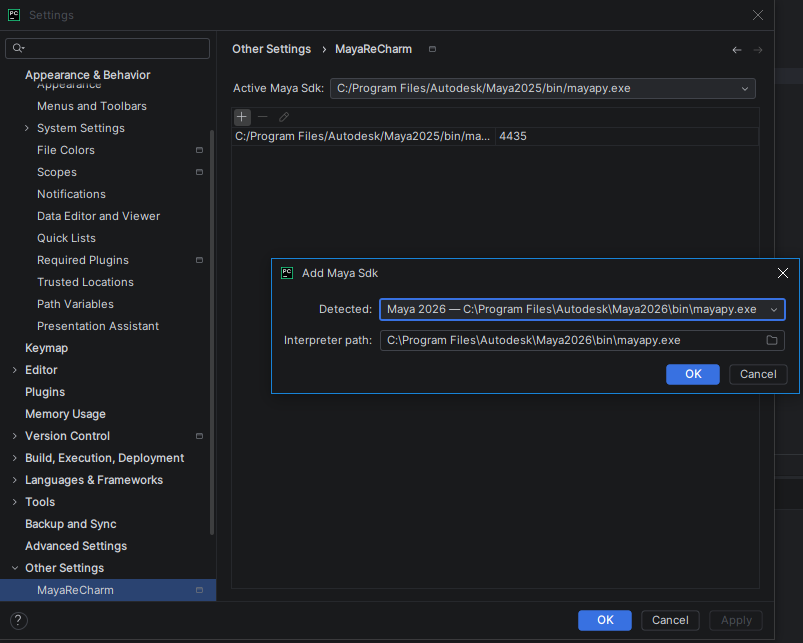
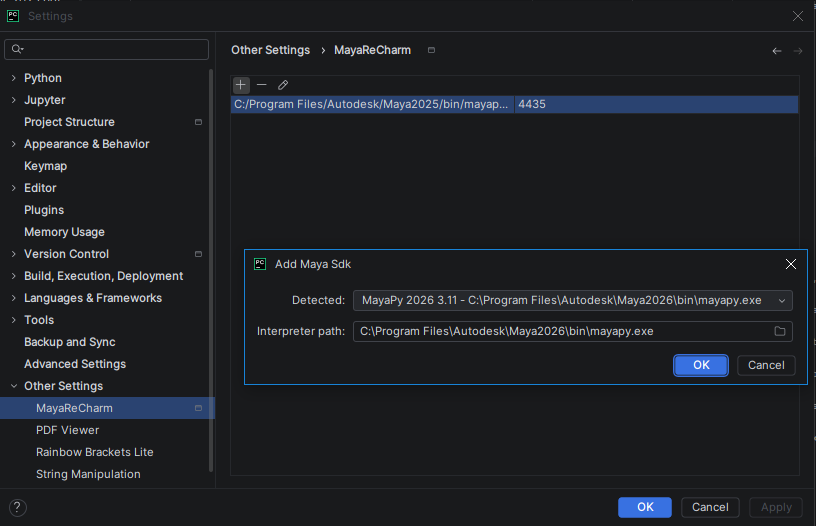
📝 Update README: clarify usage of mayapy interpreters and add logging section

diff --git a/README.md b/README.md
@@ -23,7 +23,6 @@ future updates and maintenance.
 MayaReCharm requires some minimal setup. The settings panel is located at `Settings | Other Settings | MayaReCharm`.
 
 - **Port Numbers:** Define the port numbers MayaReCharm will use to communicate with your Maya installations.
-- **Active Maya SDK:** Set the Maya installation used for the `Execute Document` and `Execute Selection` actions.
 - **Maya Interpreters:** Add `mayapy` interpreters to make them available for code execution. Note that adding `mayapy`
   via the standard `Settings | Python Interpreter` is not supported.
 
@@ -36,10 +35,11 @@ code in Maya or add it to your `userSetup.py` file.
 
 ## Usage
 
-Once configured, mayapy interpreters are available as Python Interpreter. You can select them through the bottom-right
-interpreter selector in the IDE.
+Once configured, mayapy interpreters are available as Python Interpreter. Select one of them through the bottom-right
+interpreter selector in the IDE so you can enjoy proper syntax highlighting and code completion for Maya's Python API,
+this will also determine to which Maya `Execute Actions` will send the code.
 
-![MayaReCharm_select_interpreter.jpg](docs/MayaReCharm_select_interpreter.jpg)
+![MayaReCharm_select_interpreter.jpg](docs/MayaReCharm_select_interpreter.png)
 
 MayaReCharm also adds a new type of Run Configuration. Select the Maya instance to connect to and provide a Python file
 or specific code to execute.
@@ -61,3 +61,18 @@ process list, allowing you to attach the local PyDev debugger.
 
 ![MayaReCharm Attach Dialog](docs/mc_attach_to_proc.png)
 
+### Logging
+
+MayaReCharm provides a logging console that captures output from Maya. You can access it via
+`View | Tool Windows | MayaLog` or by the Maya icon in the left tool window bar.
+
+![MayaReCharm_logging.png](docs/MayaReCharm_logging.png)
+
+The console supports one tab for each configured Maya interpreter, allowing you to view logs from multiple versions of
+Maya simultaneously. It also supports search and log level filtering.
+
+The Maya icon button in the console toolbar is the new location of the "Connect to Maya's log" action. It will try to
+connect to your Maya instance that matches the current tab. If the connection is successful, you'll see the message
+`PyCharm logger initialized and callback registered.` both in the console (`INFO` level) and in the Maya script editor.
+If nothing happens, try closing the tab and reopening it, or check the log level filter to ensure `INFO` level messages
+are visible.